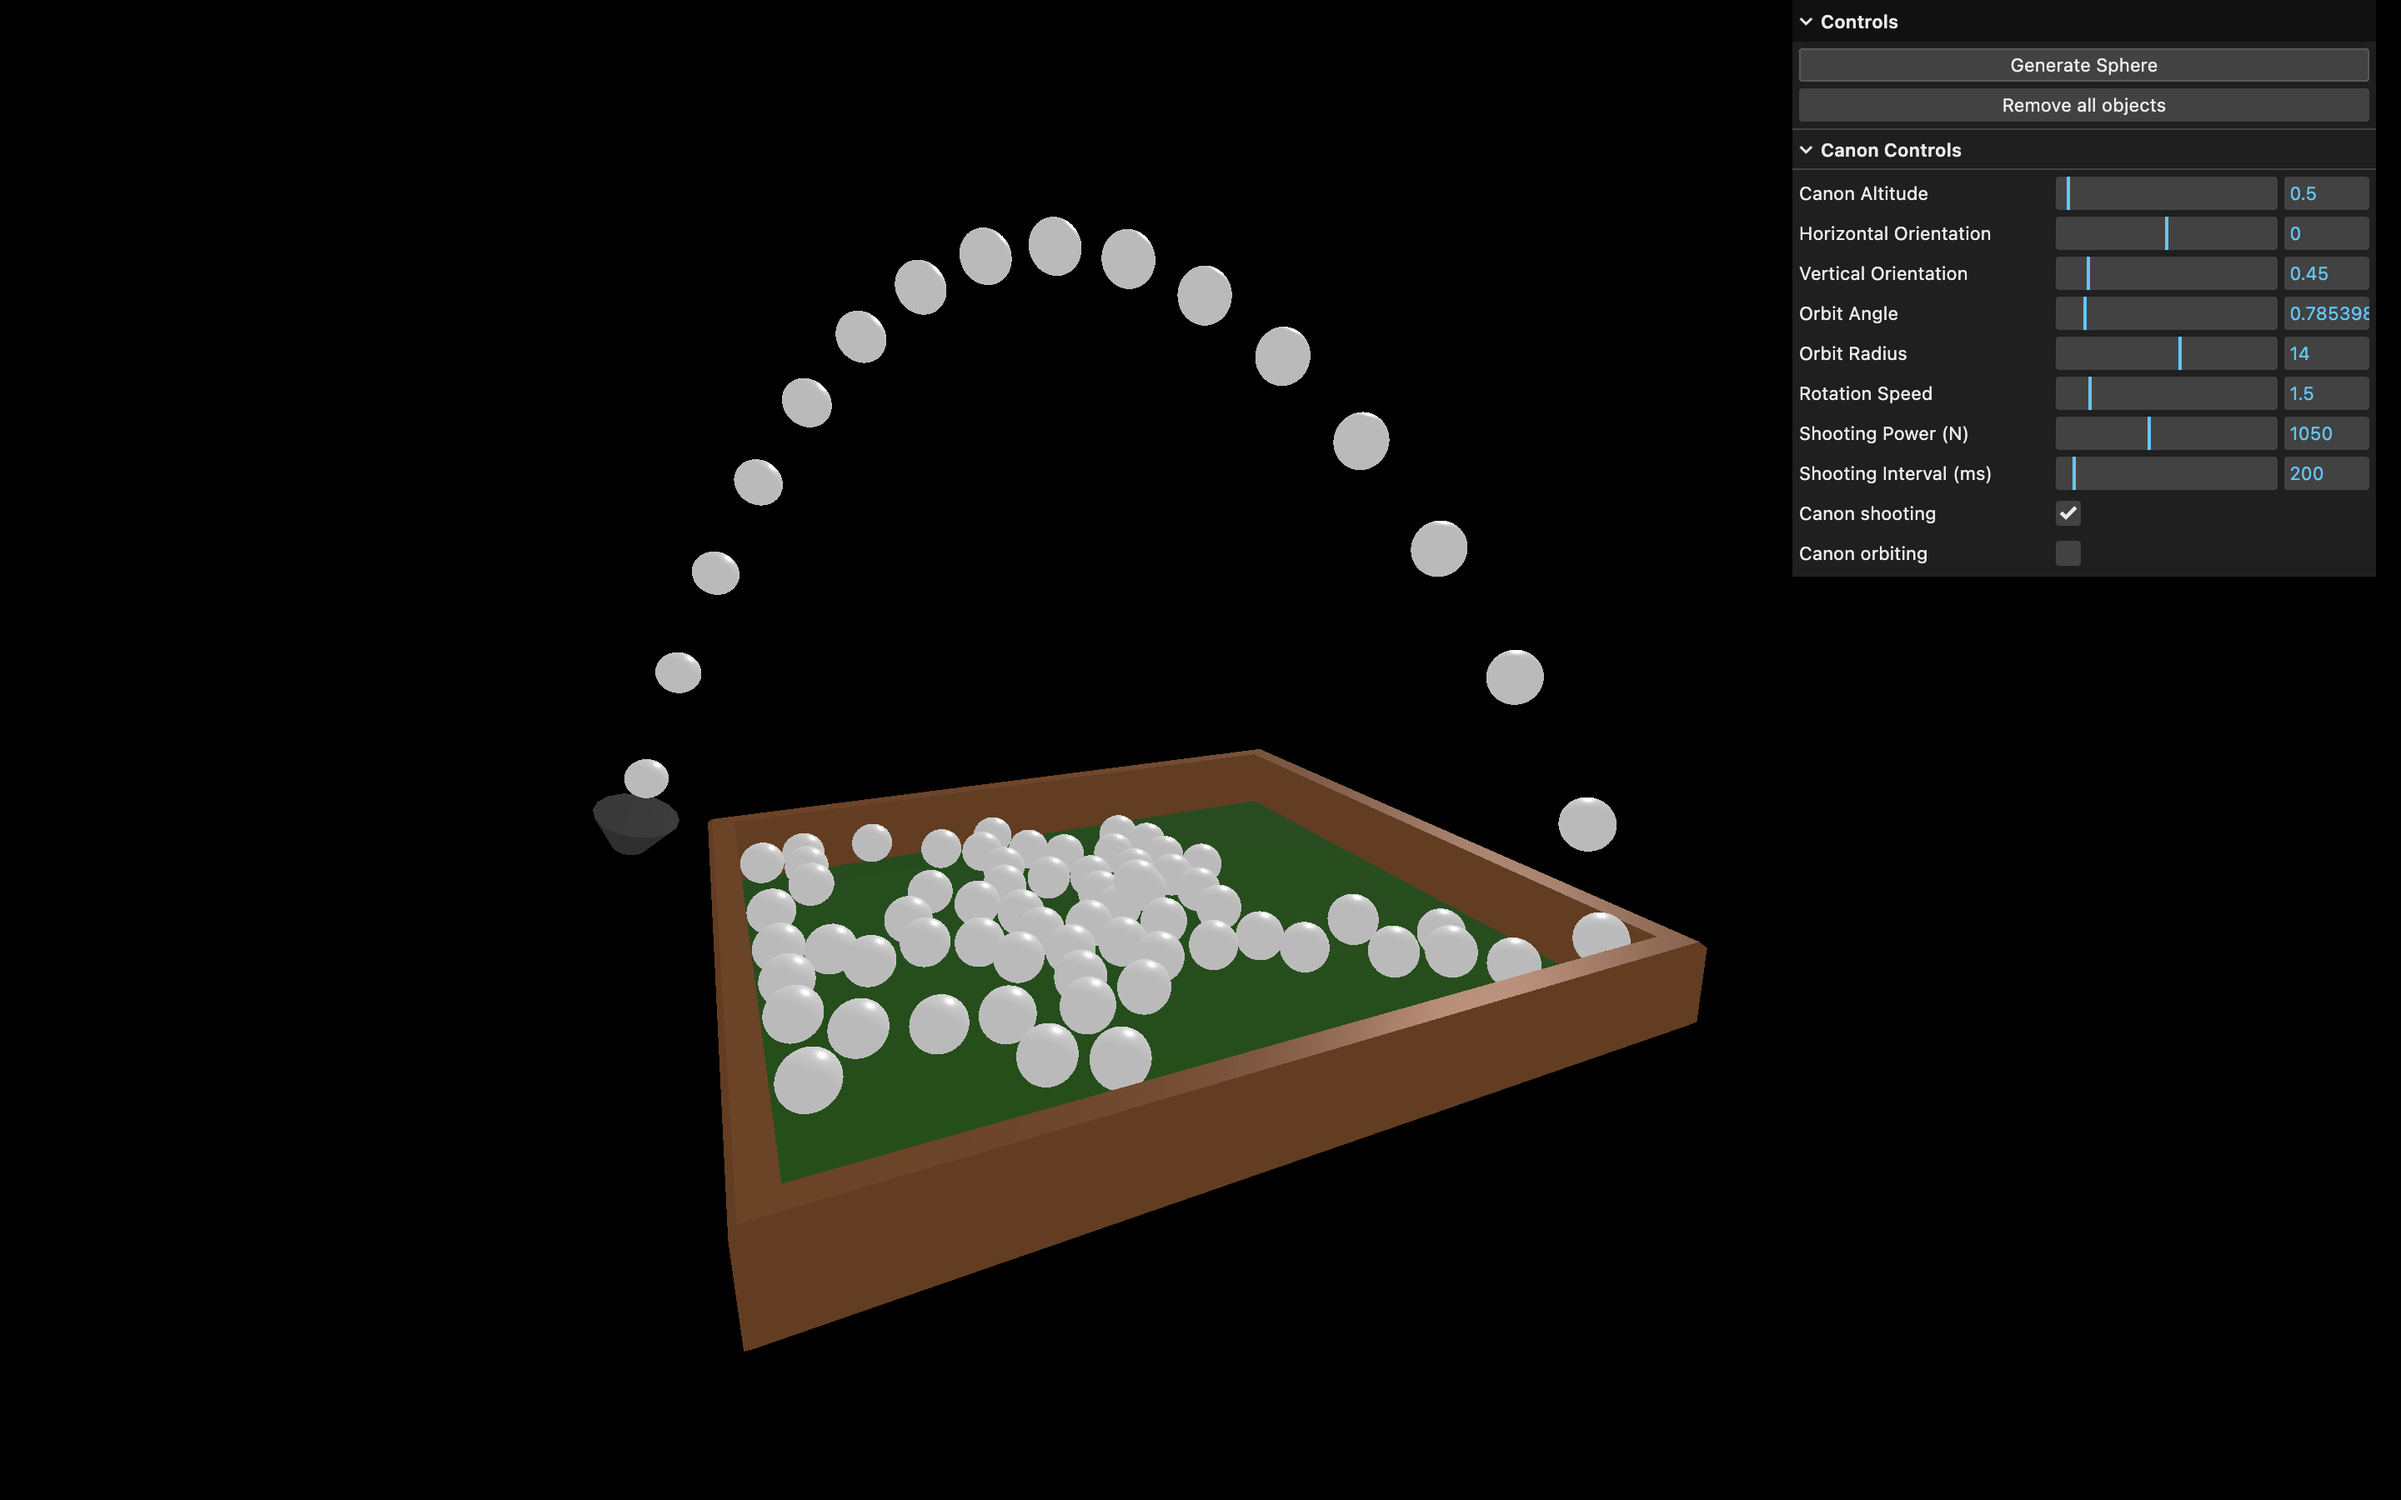
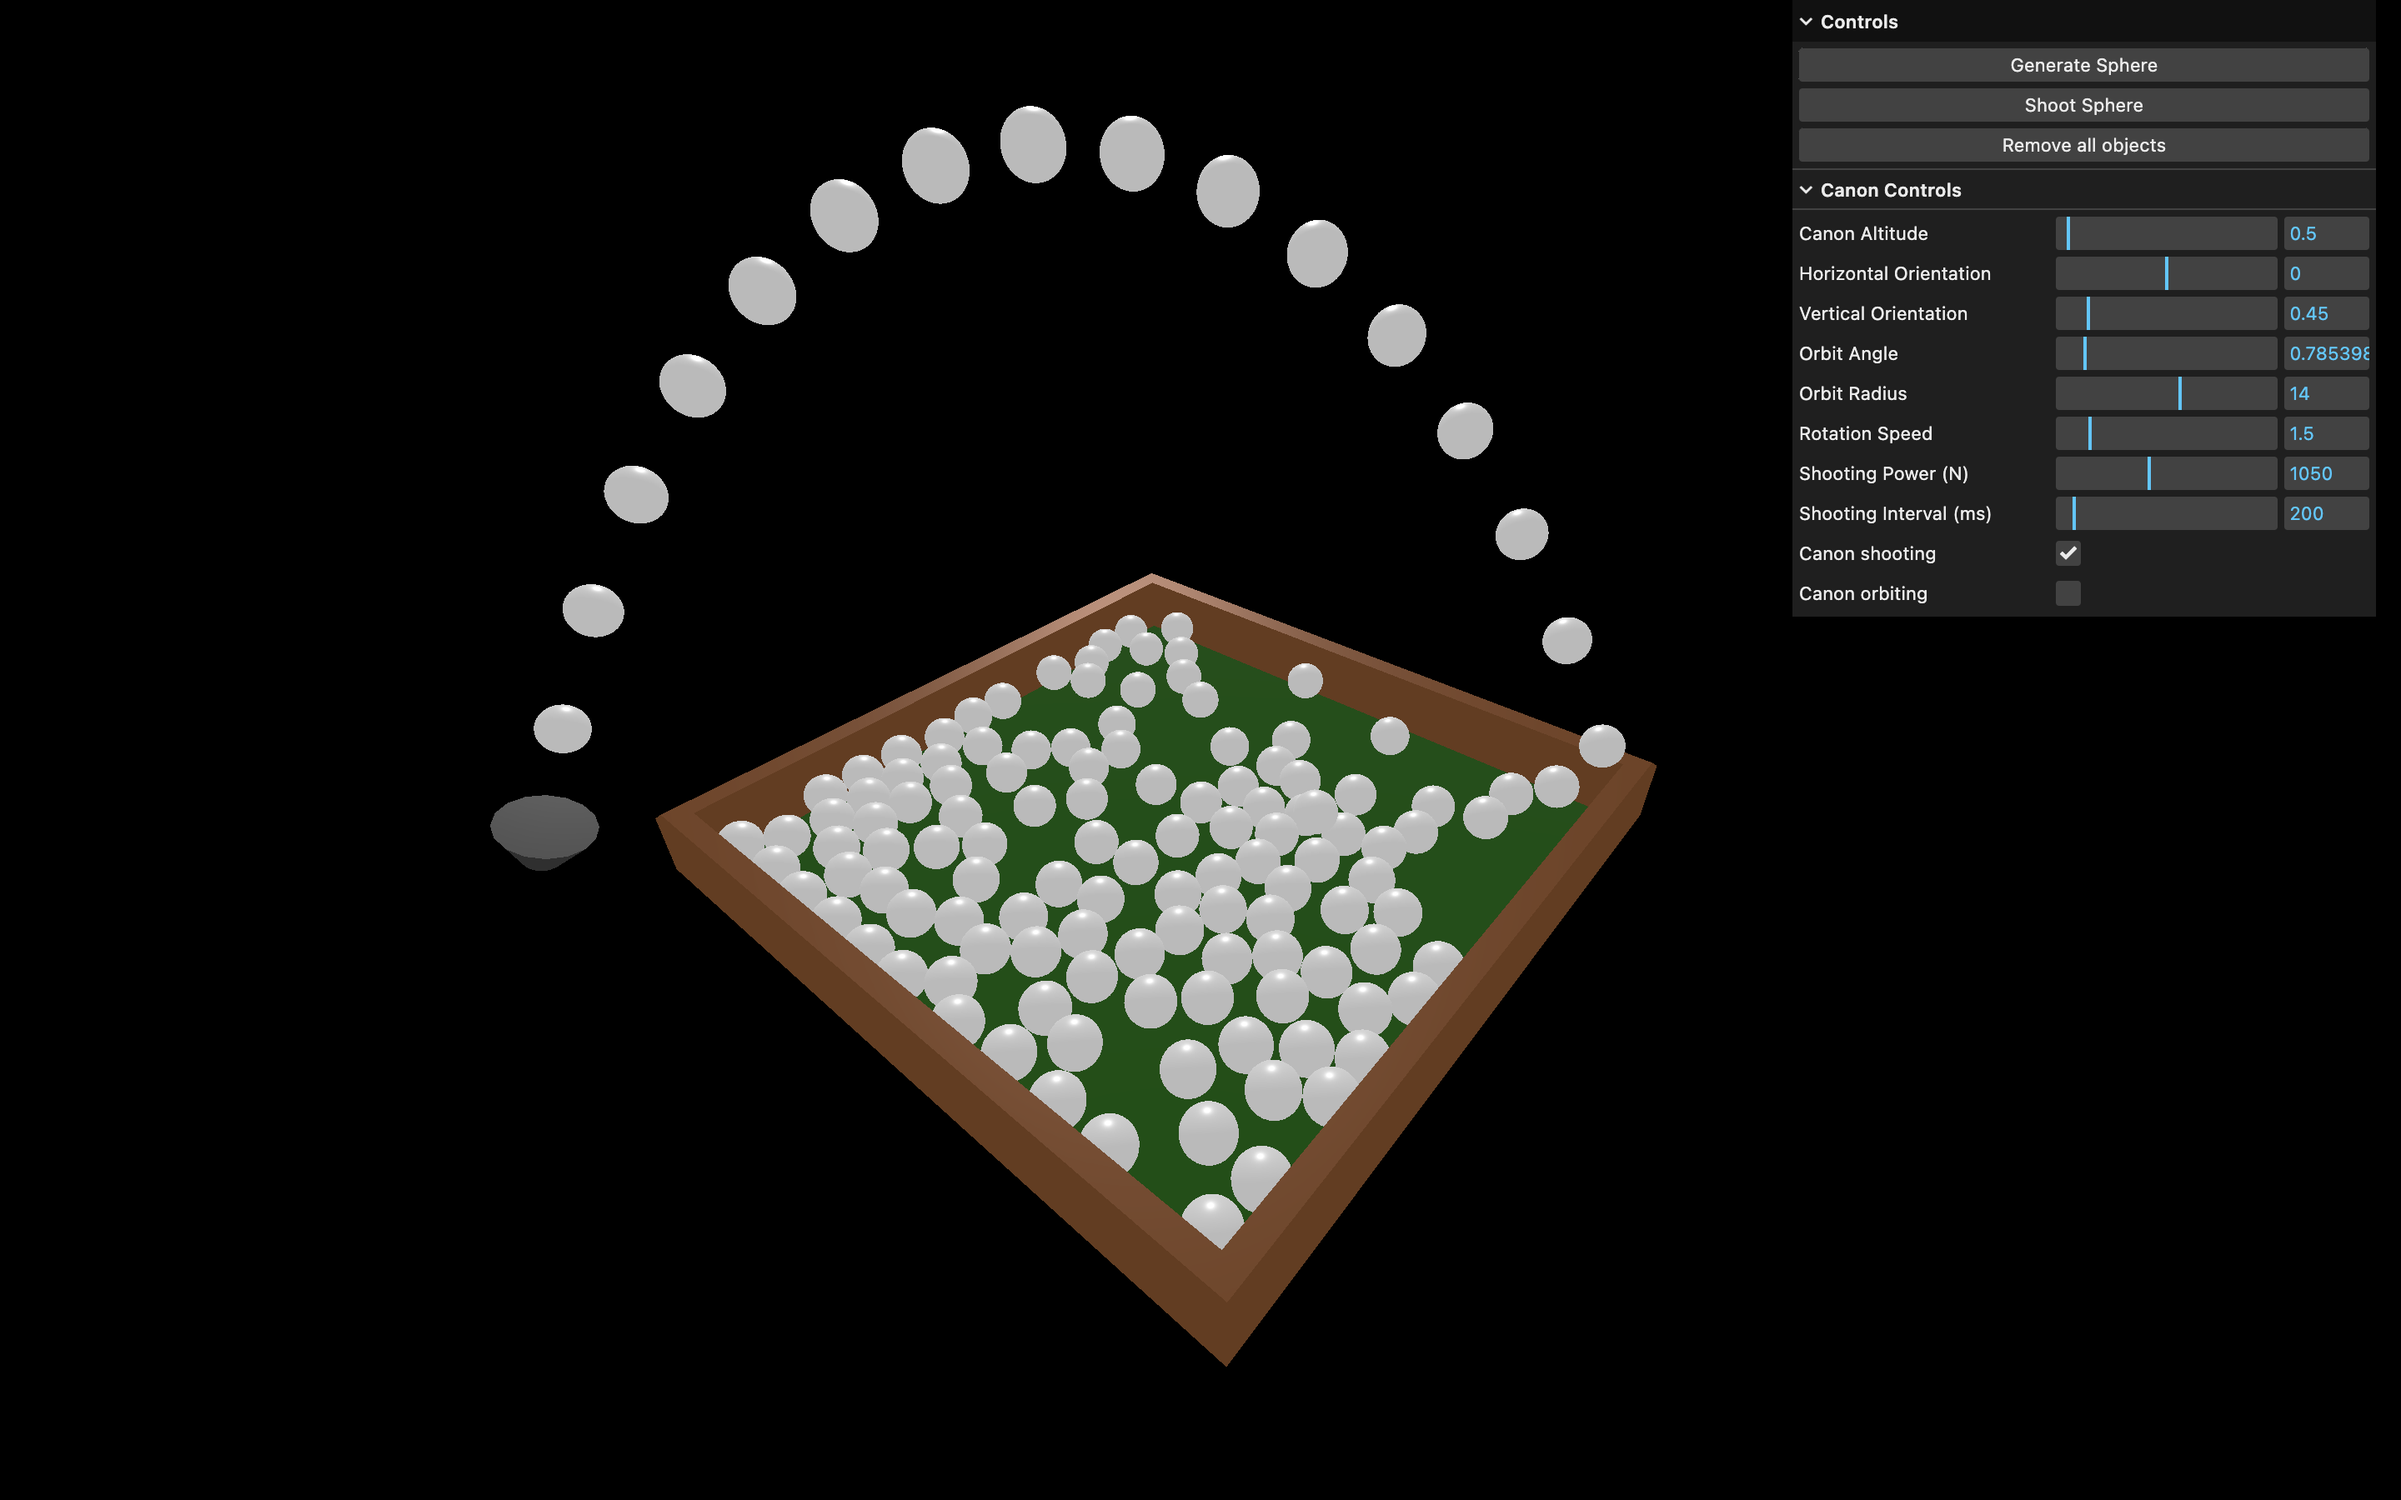
final update

diff --git a/readme.md b/readme.md
@@ -1,6 +1,6 @@
-# 🎱 Three.js – Simulateur de Physique 📦
+# 🎱 Three.js – Simulateur de Physique avec canon
 
-Une scène 3D interactive de simulation physique créée avec [Three.js](https://threejs.org/) et [Cannon-es](https://pmndrs.github.io/cannon-es/docs/modules.html), inspirée du parcours Three.js Journey par Bruno Simon.
+Une scène 3D interactive de simulation physique créée avec [Three.js](https://threejs.org/) et [Cannon-es](https://pmndrs.github.io/cannon-es/docs/modules.html), inspirée du parcours Three.js Journey par Bruno Simon. Avec un système de canon interactif et des contrôles avancés.
 
 <img src="./docs/scene.png" alt="Aperçu de la simulation physique" width="480"/>
 
@@ -10,13 +10,27 @@ Une scène 3D interactive de simulation physique créée avec [Three.js](https:/
 
 ## ✨ Fonctionnalités
 
+### 🎯 Système de Canon Avancé
+
+- Canon positionnable et orientable avec contrôles précis
+- Tir automatique de sphères avec vitesse de tir et puissance réglable
+- Rotation en orbite autour de la piscine
+- Orientation verticale et horizontale du canon réglable
+- Interface GUI complète pour tous les paramètres
+
+### 🌍 Simulation Physique
+
 - Simulation physique réaliste avec gravité et collisions
-- Piscine avec fond et murs de collision
-- Génération interactive de sphères et cubes avec propriétés physiques
+- Piscine avec fond et murs de collision physiques
+- Génération de sphères avec propriétés physiques
 - Sons de collision basés sur l'intensité de l'impact
 - Système de matériaux physiques (friction, rebond)
+
+### 🎮 Interface & Contrôles
+
 - Contrôles de caméra libre (OrbitControls)
-- Interface de debug (lil-gui) pour générer des objets et réinitialiser la scène
+- Interface de debug (lil-gui) étendue avec librairie cannon-es
+- Génération manuelle d'objets et réinitialisation de scène
 
 ## 🛠 Installation & Lancement
 
@@ -60,16 +74,46 @@ Une scène 3D interactive de simulation physique créée avec [Three.js](https:/
 
 ## ▶ Contrôles et interactions
 
+### 🎮 Interface Générale
+
 - **Bouton "Generate Sphere"** : Génère une sphère avec taille et position aléatoires
-- **Bouton "Generate Box"** : Génère un cube avec taille et position aléatoires
-- **Bouton "Reset scene"** : Supprime tous les objets générés
+- **Bouton "Shoot Sphere"** : Tire une sphère depuis le canon
+- **Bouton "Remove all objects"** : Supprime tous les objets générés
 - **Souris** : Contrôles de caméra (rotation, zoom, panoramique)
+
+### 🚀 Contrôles du Canon (Dossier "Canon Controls")
+
+- **Canon Altitude** : Hauteur du canon au-dessus du sol
+- **Horizontal Orientation** : Rotation horizontale du canon (-π à π)
+- **Vertical Orientation** : Inclinaison verticale du canon (0 à π)
+- **Orbit Angle** : Position angulaire du canon autour de la piscine (à l'arret)
+- **Orbit Radius** : Distance du canon par rapport au centre de la piscine
+- **Rotation Speed** : Vitesse de rotation orbitale
+- **Shooting Power (N)** : Force appliquée aux projectiles tirés depuis le canon (0 à 2500N)
+- **Shooting Interval (ms)** : Délai entre chaque tir automatique (50 à 2000ms)
+- **Canon shooting** : Active/désactive le tir automatique
+- **Canon orbiting** : Active/désactive la rotation orbitale
+
+### 🔊 Effets Sonores
+
 - **Collisions** : Sons automatiques basés sur l'intensité de l'impact
+- Volume proportionnel à la force de collision
 
-## ⚙ Technologies utilisées
+## 🎯 Fonctionnalités techniques avancées
 
-- **Three.js** : Rendu 3D et géométries
-- **Cannon-es** : Moteur physique réaliste
+### Système de Canon
+
+- Calcul de trajectoire en temps réel basé sur la rotations 3D du canon
+- Application de forces physiques via `applyLocalForce()`
+- Système de coordonnées mondiales avec `getWorldPosition()` et `matrixWorld`
+- Gestion d'intervalles dynamiques pour le tir automatique
+
+### Physique
+
+- Détection de collision avec callback `addEventListener("collide")`
+- Matériaux personnalisés avec friction et restitution
+- Corps physiques composites pour la piscine (murs + sol)
+- Optimisation des performances avec `allowSleep` et `SAPBroadphase`
 
 ## 🔗 Mes autres projets Three.js
 
